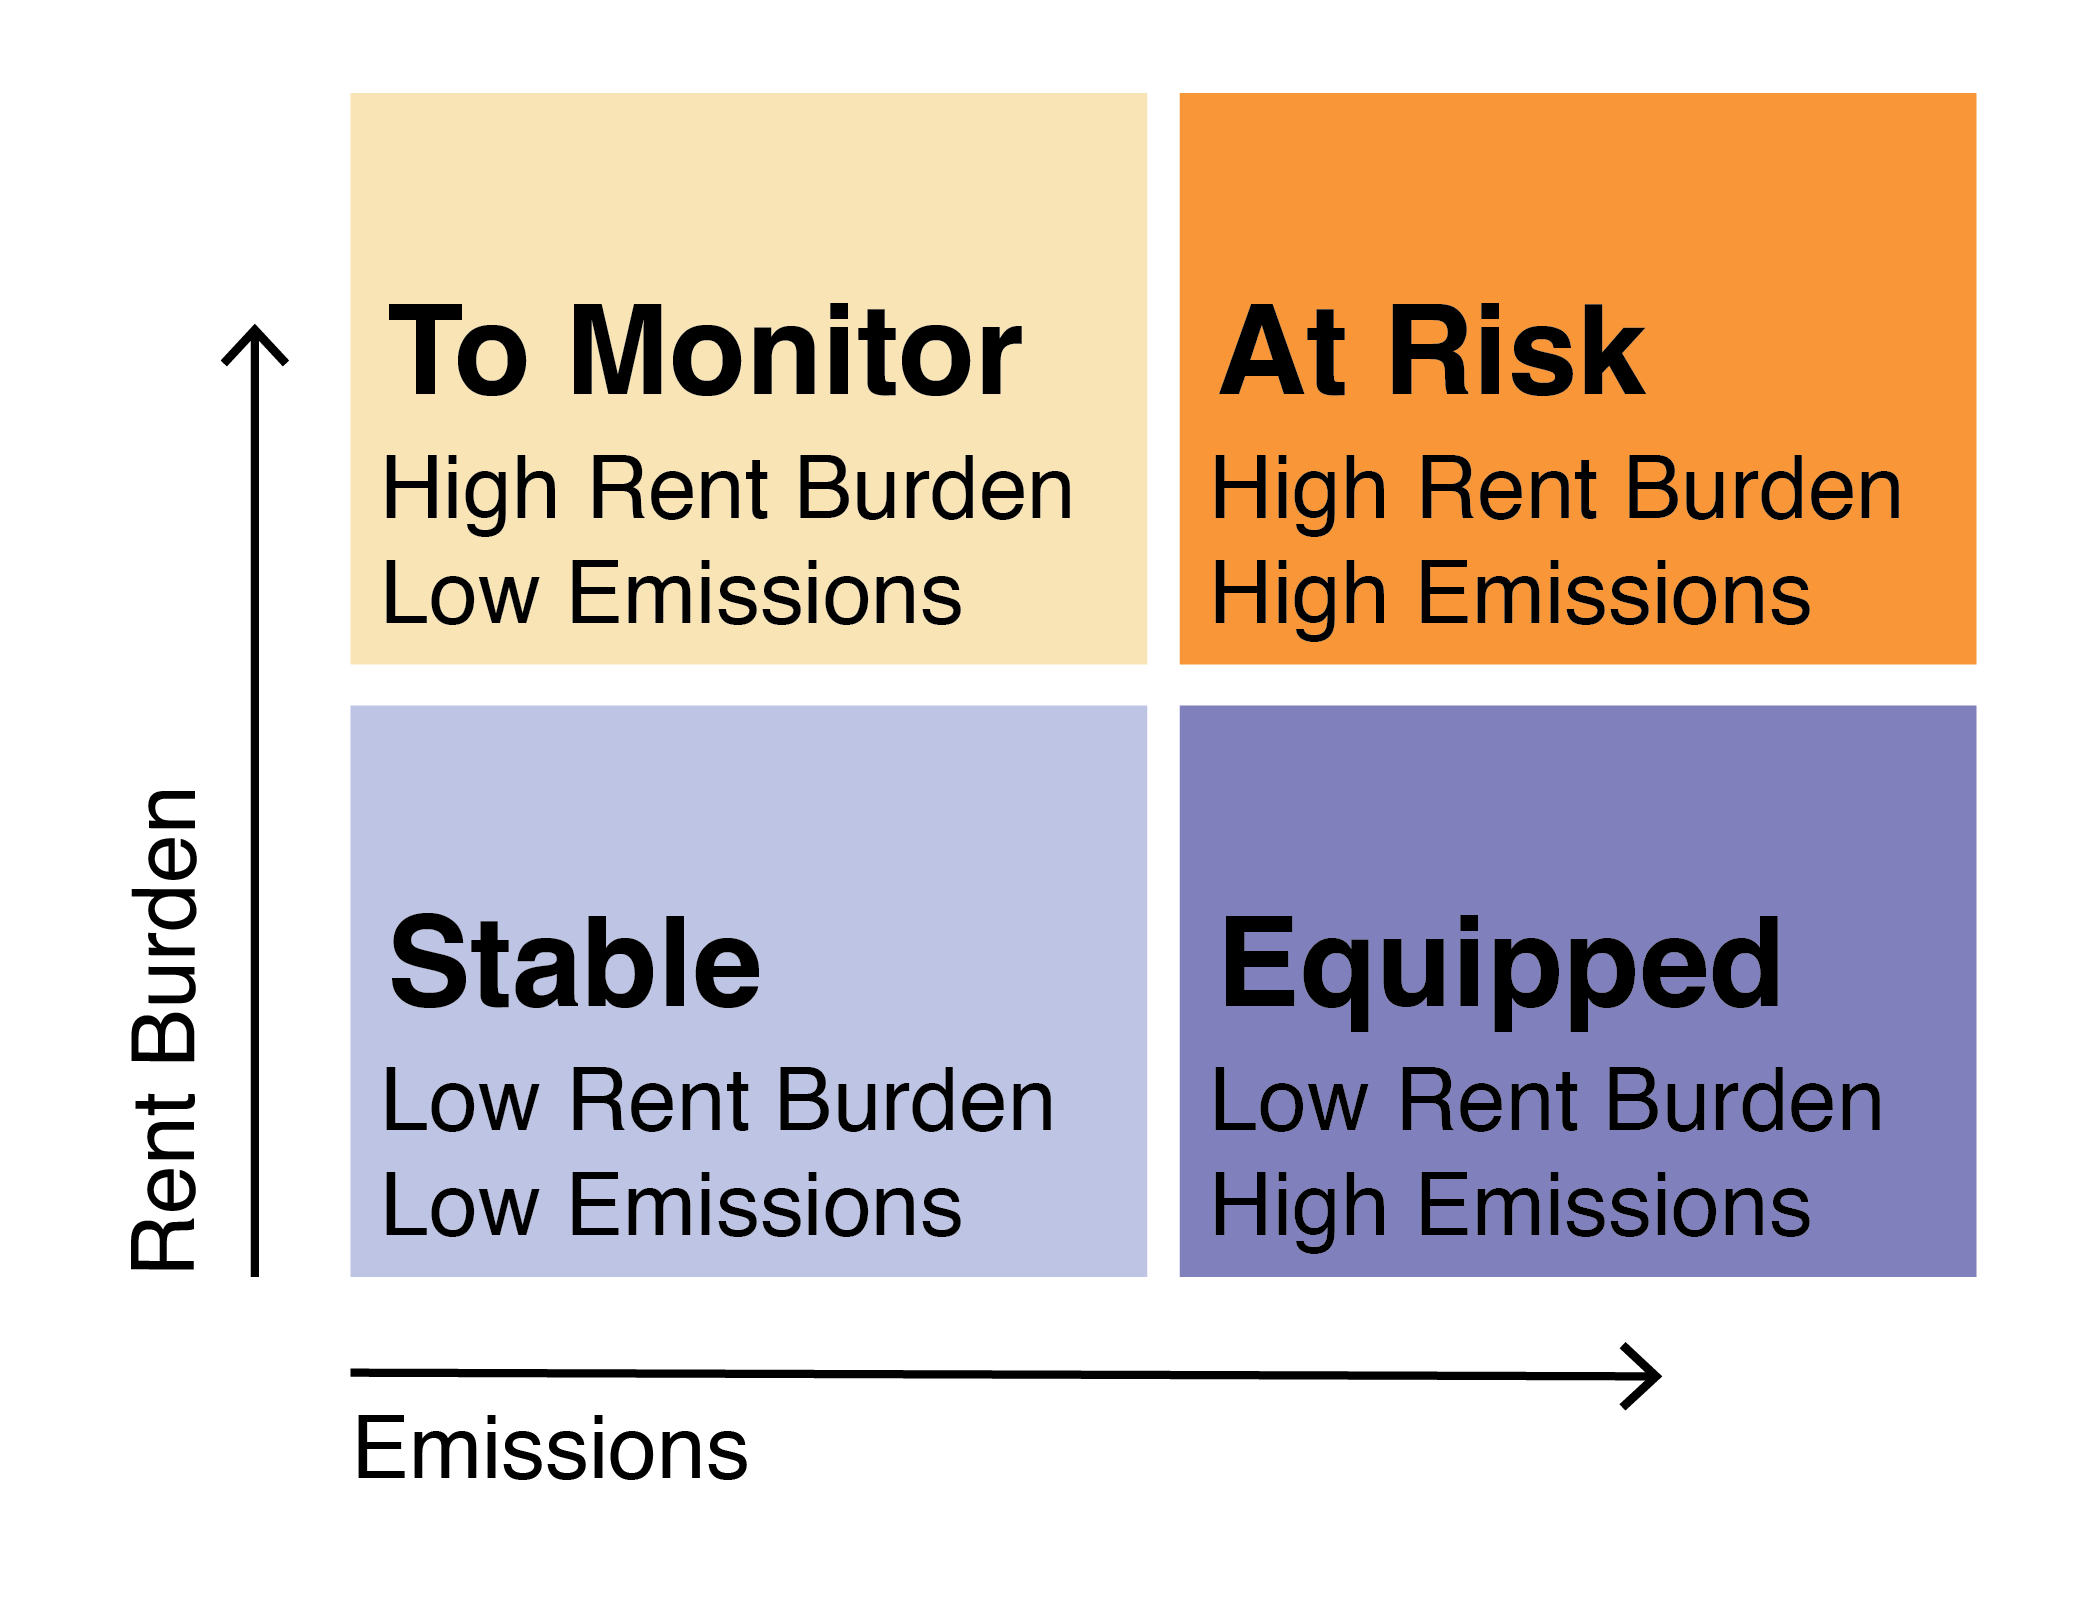
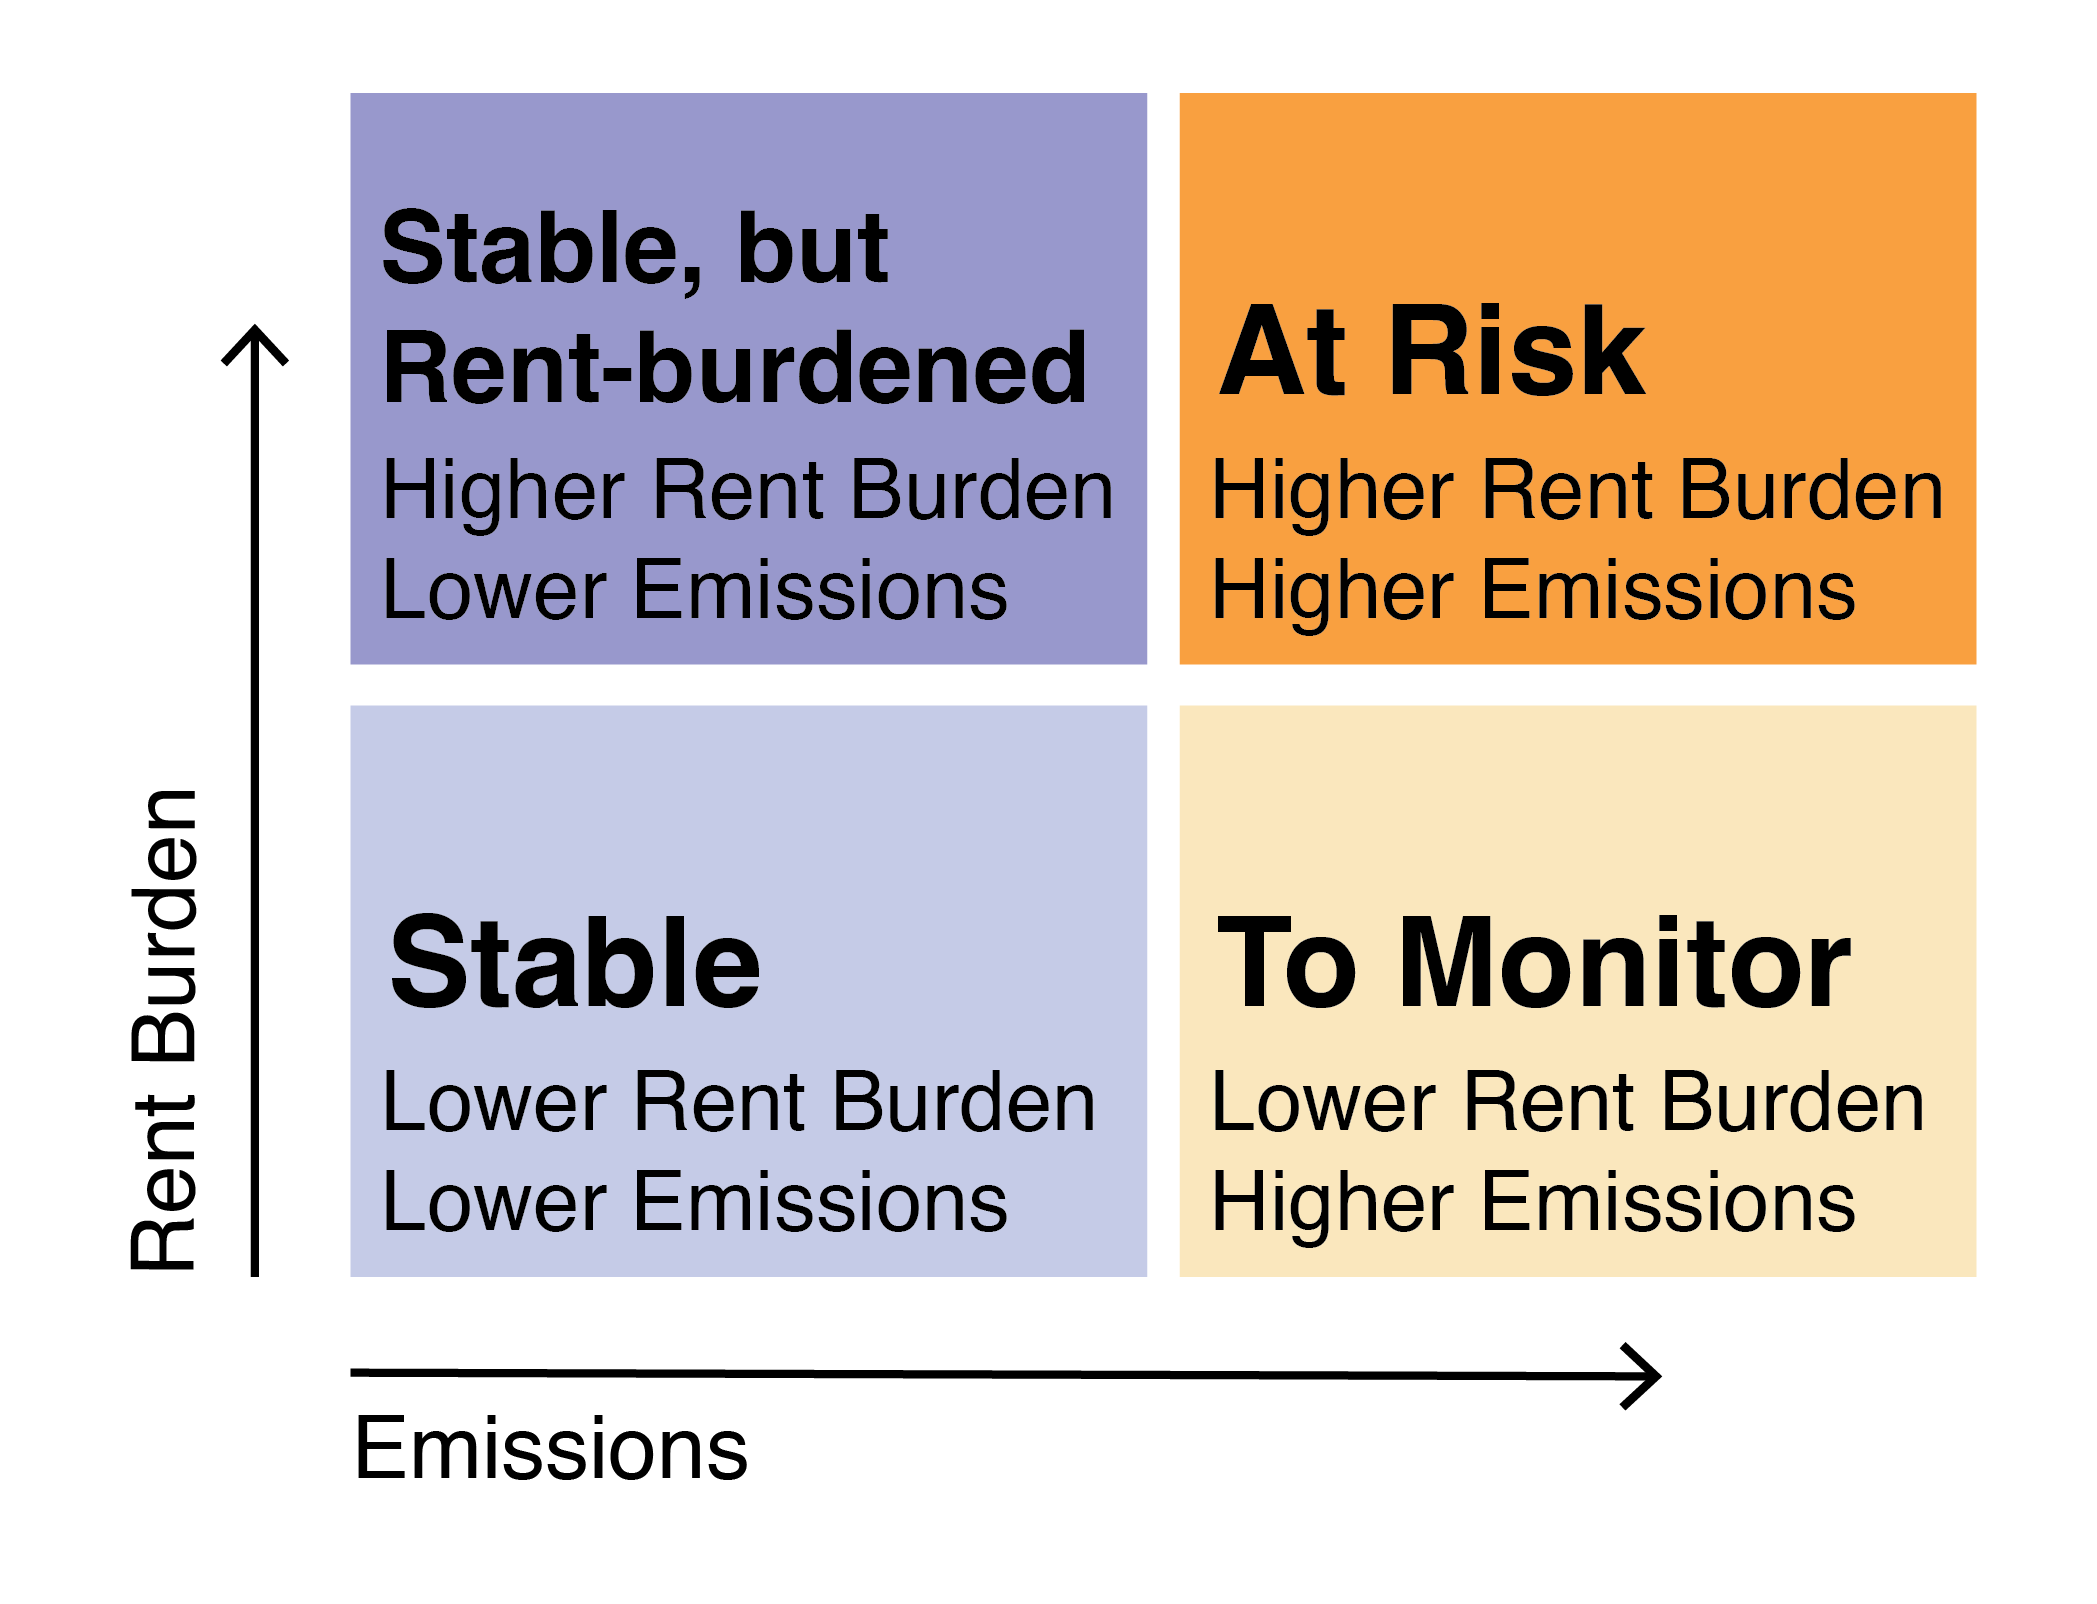
fly to random at risk

diff --git a/js/scripts.js b/js/scripts.js
@@ -1,3 +1,14 @@
+
+function openNavPopup() {
+    document.getElementById("nav-popup").style.display = "block";
+    document.getElementById("nav-popup-overlay").style.display = "block";
+}
+
+function closeNavPopup() {
+    document.getElementById("nav-popup").style.display = "none";
+    document.getElementById("nav-popup-overlay").style.display = "none";
+}
+
 mapboxgl.accessToken = 'pk.eyJ1IjoiY3ByZWVsZHVtYXMiLCJhIjoiY2x1bHZ0dGJ0MGw4bTJpbGxwdm5jZmQ4cyJ9.ZusuHjH6O73kH4F2RmenWA';
 const map = new mapboxgl.Map({
     container: 'map',
@@ -28,19 +39,71 @@ map.on('load', function () {
                 'match',
                 ['get', 'qd_2024'],
                 'stable_highrent',
-                '#F9E2B4',
+                '#757FBD',
                 'stable_lowrent',
                 '#BDC4E3',
                 'disadvantaged',
                 '#F89638',
                 'equipped',
-                '#8884FF',
+                '#F9E2B4',
                 '#ccc'
             ],
-            'fill-opacity': 0.9 
-            
+            'fill-opacity': 0.9
+
         }
     })
 
+    // When a click event occurs on a feature in the states layer,
+    // open a popup at the location of the click, with description
+    map.on('click', 'map-data-tract-fill', (e) => {
+        new mapboxgl.Popup()
+            .setLngLat(e.lngLat)
+            .setHTML(`
+                <h3>${e.features[0].properties.GEOID}</h3>
+                    <p>
+                     <strong>Median GHG Intensity:</strong> ${e.features[0].properties.mdn_ghg} kgCO2e/ft2<br>
+                     <strong>Rent Burden:</strong> Median rent is ${e.features[0].properties.rntbrdE} % of household income <br>
+                    </p>
+                    `)
+            .addTo(map);
+    });
+
+    // Change the cursor to a pointer when
+    // the mouse is over the states layer.
+    map.on('mouseenter', 'map-data-tract-fill', () => {
+        map.getCanvas().style.cursor = 'pointer';
+    });
+
+    // Change the cursor back to a pointer
+    // when it leaves the states layer.
+    map.on('mouseleave', 'map-data-tract-fill', () => {
+        map.getCanvas().style.cursor = '';
+    });
+
+    
 
 })
+
+// Fly to Random "At Risk" Tract
+function flyToRandomRisk() {
+    // Filter features based on the "risk" category
+    const riskFeatures = map.queryRenderedFeatures({
+        layers: ['map-data-tract-fill'],
+        filter: ['==', ['get', 'qd_2024'], 'disadvantaged'] 
+    });
+
+    // Check if there are any features in the "risk" category
+    if (riskFeatures.length > 0) {
+        // Randomly select one feature from the filtered list
+        const randomFeature = riskFeatures[Math.floor(Math.random() * riskFeatures.length)];
+
+        // Fly the map to the selected feature
+        map.flyTo({
+            center: randomFeature.geometry.coordinates[0][0], // Adjust the coordinates if needed
+            zoom: 14, // Adjust the zoom level as desired
+            essential: true // ensures the flyTo animation is smooth
+        });
+    } else {
+        console.log("No census tracts found in the 'risk' category.");
+    }
+}

diff --git a/index.html b/index.html
@@ -3,7 +3,7 @@
 
 <head>
     <meta charset="utf-8">
-    <title>LL97 Equity Map</title>
+    <title>LL97 Housing Equity Map</title>
     <meta name="viewport" content="initial-scale=1,maximum-scale=1,user-scalable=no">
     <link href="https://api.mapbox.com/mapbox-gl-js/v2.14.0/mapbox-gl.css" rel="stylesheet">
     <link href="css/styles.css" rel="stylesheet">
@@ -13,8 +13,24 @@
 <body>
     <div id="main-container">
         <nav>
-            <div class="title">LL97 Equity Map</div>
+            <div class="title">LL97 Housing Equity Map</div>
+
             <div class="nav-links">
+
+                <a class="nav-link" href="#" onclick="openNavPopup()">About</a>
+
+                <div id="nav-popup" class="nav-popup">
+                    <div class="nav-popup-content">
+                        <span class="nav-popup-close" onclick="closeNavPopup()">&times;</span>
+                        <p class ="title"> About the LL97 Housing Equity Map</p>
+                        <p>Add about text.</p>
+                    </div>
+                </div>
+                <div id="nav-popup-overlay" class="nav-popup-overlay"></div>
+
+                <a class="nav-link" href="https://github.com/cpreeldumas/class-5-project" target="_blank"
+                    rel="noopener noreferrer">Methods</a>
+                    
                 <a class="nav-link" href="https://github.com/cpreeldumas/class-5-project" target="_blank"
                     rel="noopener noreferrer">Source Code</a>
             </div>
@@ -22,11 +38,12 @@
         </nav>
         <div id="content-container">
             <div id="sidebar">
-                <p>This is a simple, responsive layout template for web mapping projects. It can save you some time scaffolding your project so you can focus on everything else.</p>
-                <p>It's fullscreen, and features a top nav, fixed-width sidebar, and main map area.</p>
-                <p>This sidebar will scroll if its content becomes longer than the map.</p>
-                <p>On mobile devices, the orientation of the sidebar and map containers changes to a column, with the
-                    map on top taking 60% of the height, and the sidebar on the bottom.</p>
+                <p>This map categorizes census tracts with LL97-covered buildings by their level of rent burden to find areas where... Click the About page to learn more, or the Methods page for more detail on the data and methodology.</p>
+                <p><strong>Click a Census Tract for details, or</strong>
+                    <button onclick="flyToRandomRisk()">Fly to a Random "A Risk" Census Tract</button>
+                </p>
+                <p>Insert slider for 2024 cap vs 2030 cap</p>
+                <p>Insert table with statistics</p>
             </div>
 
             <div id="map"></div>

diff --git a/css/styles.css b/css/styles.css
@@ -4,7 +4,7 @@ body,
 #main-container {
     height: 100%;
     width: 100%;
-    font-family: Verdana, Geneva, Tahoma, sans-serif;
+    font-family: Helvetica, Geneva, Tahoma, sans-serif;
 }
 
 body {
@@ -32,6 +32,7 @@ nav {
 
 .nav-link {
     display: inline-block;
+    margin-right: 20px;
     font-size: .9rem;
 }
 
@@ -94,3 +95,48 @@ nav {
     font-weight: bold;
     font-size: 16px;
 }
+
+.nav-popup {
+    display: none;
+    position: fixed;
+    top: 50%;
+    left: 50%;
+    transform: translate(-50%, -50%);
+    background-color: white;
+    padding: 20px;
+    border-radius: 5px;
+    z-index: 1000;
+    width: 700px
+}
+
+.nav-popup-content {
+    position: relative;
+}
+
+.nav-popup-close {
+    position: absolute;
+    top: 5px;
+    right: 10px;
+    cursor: pointer;
+}
+
+.nav-popup-overlay {
+    display: none;
+    position: fixed;
+    top: 0;
+    left: 0;
+    width: 100%;
+    height: 100%;
+    background-color: rgba(0, 0, 0, 0.5);
+    z-index: 999;
+}
+
+.mapboxgl-popup {
+    max-width: 600px;
+    font:
+        12px/20px 'Helvetica Neue',
+        Arial,
+        Helvetica,
+        sans-serif;
+}
+
